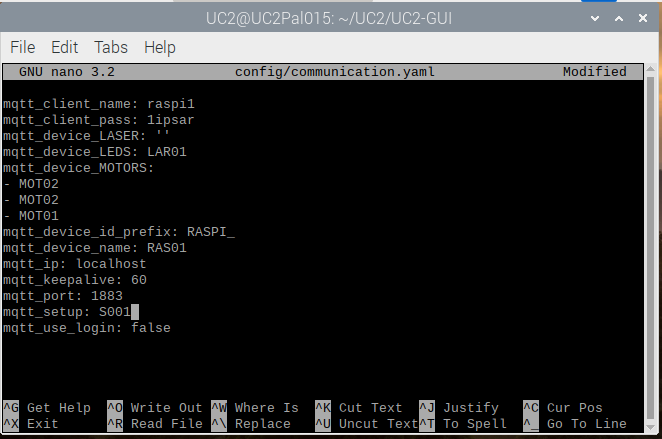
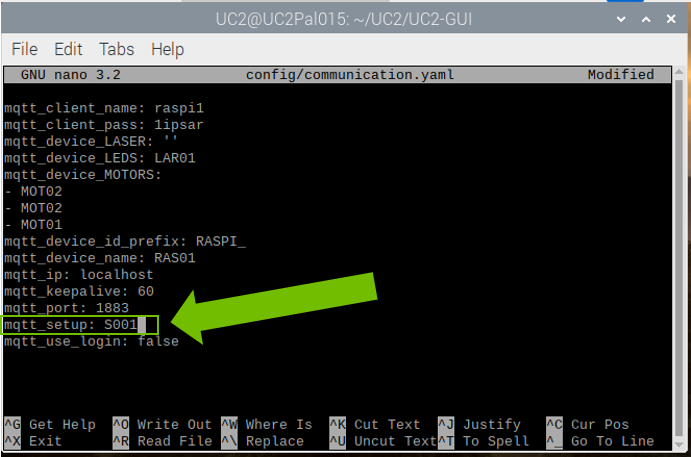
Implemented comments from R

Changed region(s): [[0.0, 0.0888, 0.997, 1.0], [0.3021, 0.0296, 0.6647, 0.0592]]

diff --git a/GUI/RASPBERRY_PI/README.md b/GUI/RASPBERRY_PI/README.md
@@ -64,6 +64,7 @@ Setting up the RasPi can be done via SSH remotely as well, but finally our our c
  * The RasPi doesn't have a power switch - it will turn on when you plug it to the electrical socket.
  * You should see a red LED light up on the Raspberry Pi, which indicates that Raspberry Pi is connected to power. As it starts up (this is also called booting), you will see raspberries appear in the top left-hand corner of your screen.
  * Your display might be turned upside down. This will be handled soon. The desktop appears.
+ * The desktop might not look exactly like this, it depends on the operation OS of the RasPi
  <p align="center">
  <img src="./IMAGES/pi-desktop.png" width="300" alt="">
  </p>
@@ -225,7 +226,7 @@ $ ./02-UC2_CreateEnvironment.sh
     $ python
     $ exit()
     ```
-    which will should give you this as a result:
+    which should give you this as a result:
     <p align="center">
     <img src="./IMAGES/script05.png" width="400" alt="">
     </p>
@@ -328,7 +329,7 @@ The service will automatically start and is running. Nice!
     $ nano config/communication.yaml
     ```
     Search for the (`Ctr+W`) `mqtt setup` and change it to e.g. `S001`. Then (`Ctrl+X` `y` Enter) and save the changes.  
-    **This is very important!** All the hardware parts will recognize the RasPi by its setup number. Make sure to use the same number for the microcontrollers you'll be connecting to this RasPi. 
+    **This is very important!** All the hardware parts will recognize the RasPi by its setup number. Make sure to use the same number for the microcontrollers you'll be connecting to this RasPi.
     <p align="center">
     <img src="./IMAGES/script11.png" width="400" alt="">
     </p>
